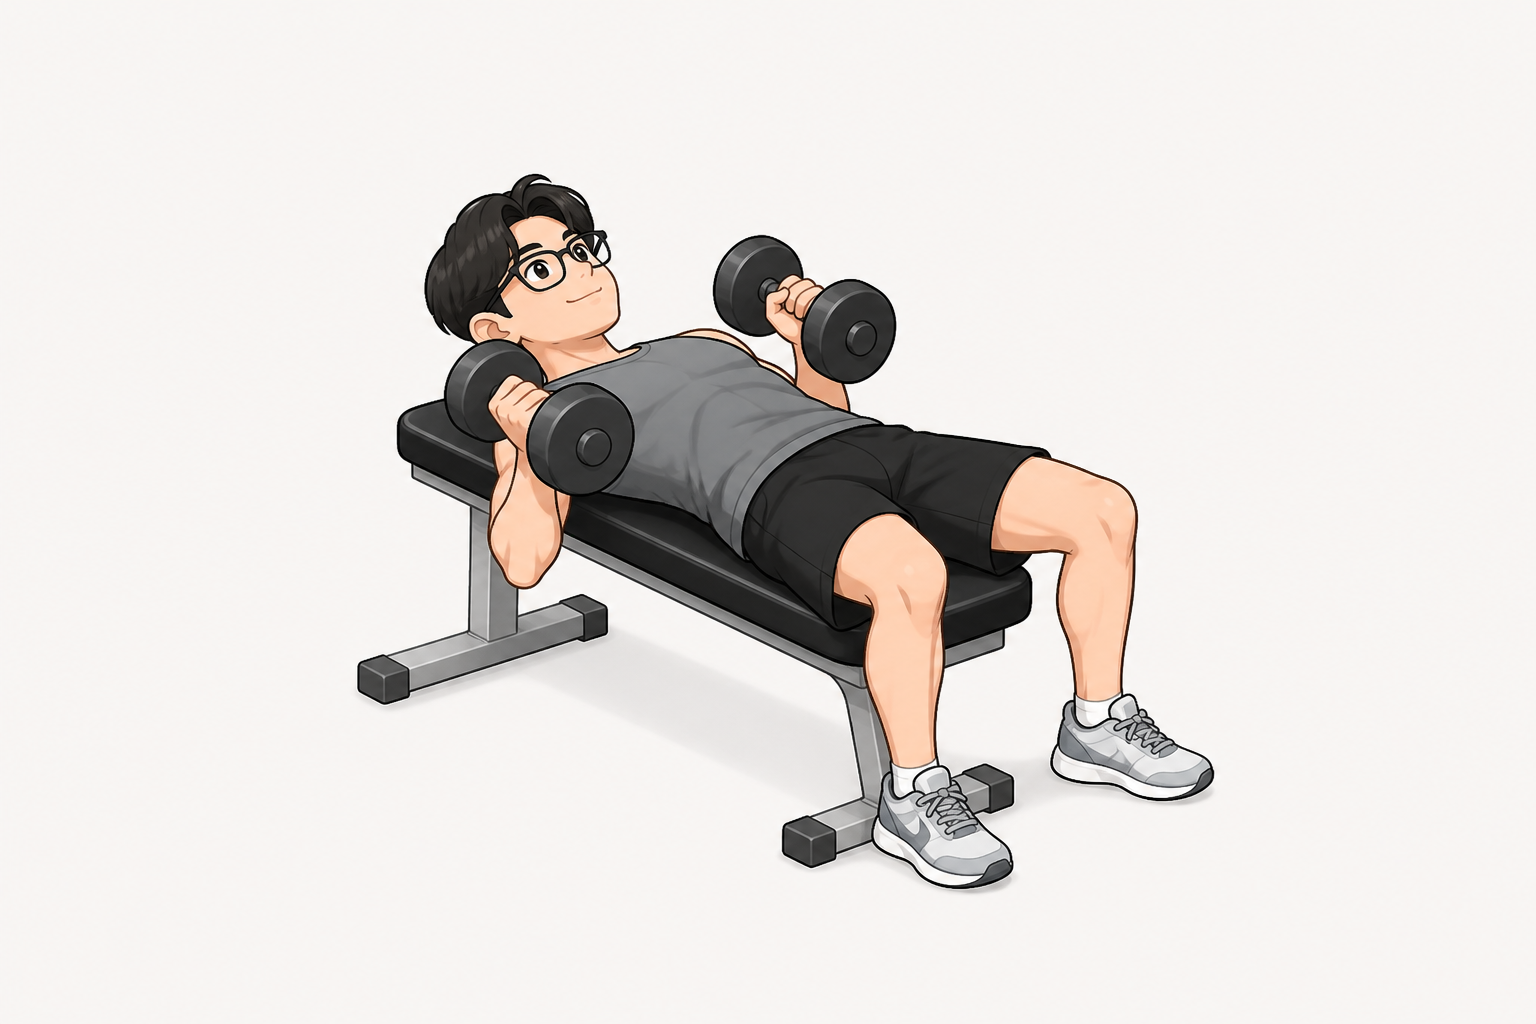
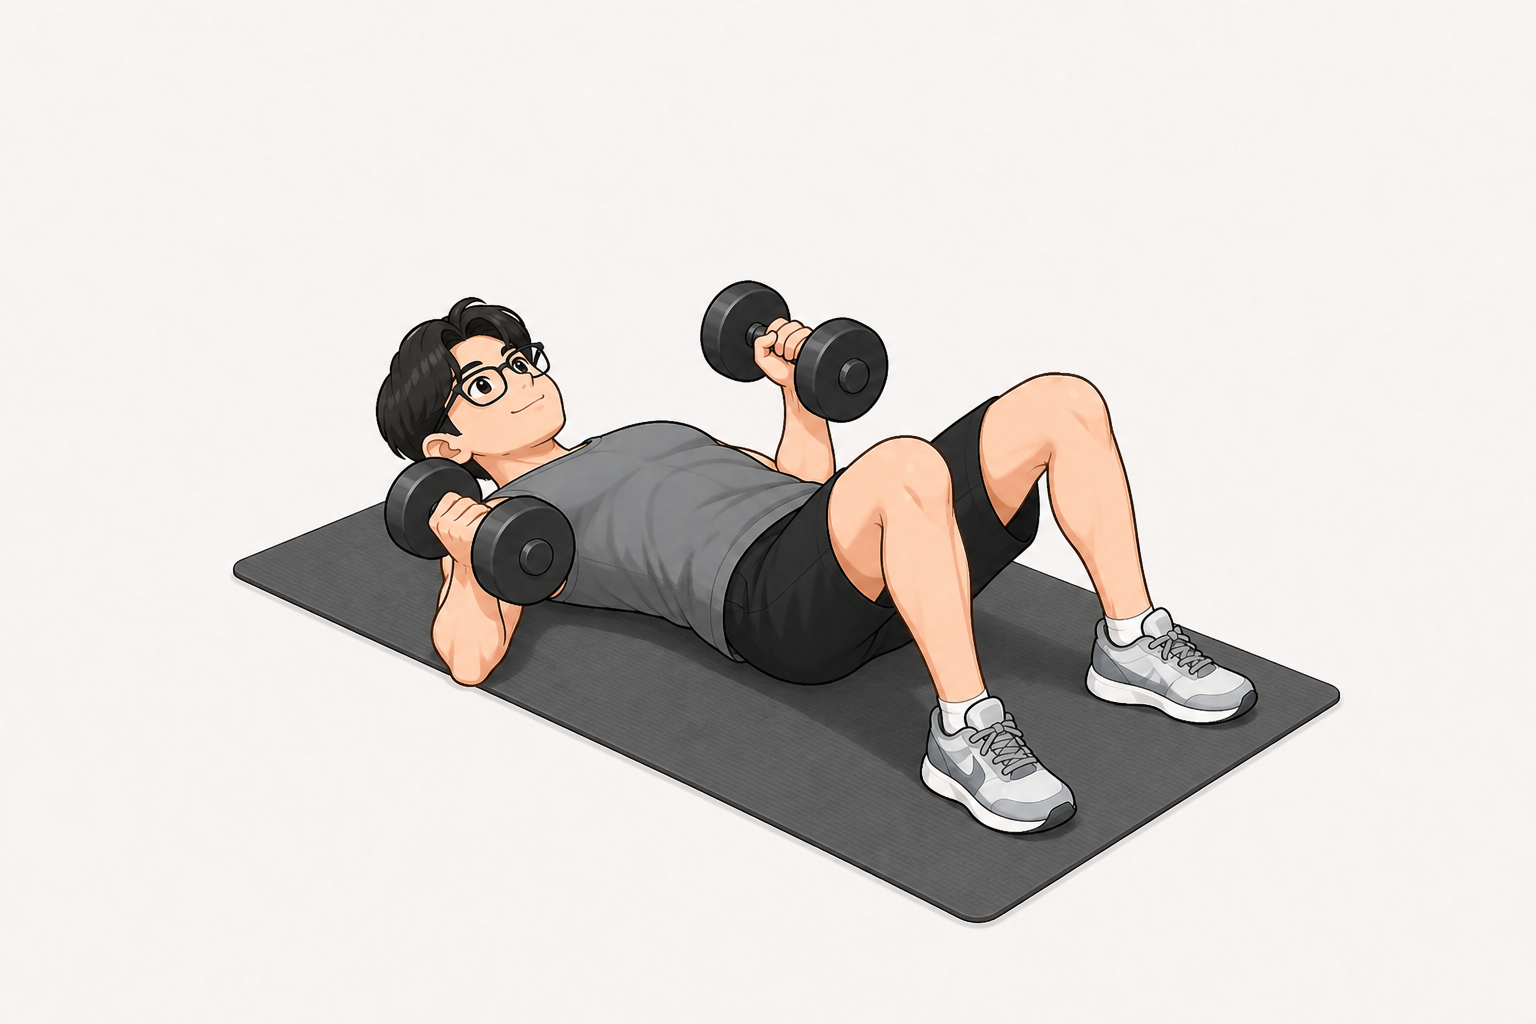
feat: optimize sth

Changed region(s): [[0.1562, 0.1562, 0.875, 0.9062]]

diff --git a/src/pages/ExerciseDetail.tsx b/src/pages/ExerciseDetail.tsx
@@ -1,6 +1,6 @@
 import { Star } from 'lucide-react'
 import type { ReactNode } from 'react'
-import { useState } from 'react'
+import { useRef, useState } from 'react'
 import { useParams } from 'react-router-dom'
 import { AppHeader } from '../components/AppHeader/AppHeader'
 import { ExerciseIllustration } from '../components/ExerciseIllustration/ExerciseIllustration'
@@ -15,10 +15,19 @@ export function ExerciseDetail({
   onToggle: (id: string) => void
 }) {
   const [activeTab, setActiveTab] = useState<'guide' | 'details'>('guide')
+  const swipeStart = useRef<{ x: number; y: number } | null>(null)
   const { id } = useParams()
   const exercise = exercises.find((item) => item.id === id) ?? exercises[0]
   const saved = favorites.includes(exercise.id)
   const { t, text } = useLanguage()
+  const handleTouchEnd = (x: number, y: number) => {
+    if (!swipeStart.current) return
+    const deltaX = x - swipeStart.current.x
+    const deltaY = y - swipeStart.current.y
+    swipeStart.current = null
+    if (Math.abs(deltaX) < 56 || Math.abs(deltaX) <= Math.abs(deltaY)) return
+    setActiveTab(deltaX < 0 ? 'details' : 'guide')
+  }
   return (
     <main className="page detail">
       <div className="detail-head">
@@ -50,7 +59,18 @@ export function ExerciseDetail({
         </button>
       </div>
       {activeTab === 'guide' ? (
-        <div className="detail-panel" role="tabpanel">
+        <div
+          className="detail-panel"
+          role="tabpanel"
+          onTouchStart={(event) => {
+            const touch = event.touches[0]
+            swipeStart.current = { x: touch.clientX, y: touch.clientY }
+          }}
+          onTouchEnd={(event) => {
+            const touch = event.changedTouches[0]
+            handleTouchEnd(touch.clientX, touch.clientY)
+          }}
+        >
           <div className="pose-grid">
             <div>
               <ExerciseIllustration label={t('startPosition')} src={exercise.startImage} />
@@ -73,7 +93,18 @@ export function ExerciseDetail({
           </DetailSection>
         </div>
       ) : (
-        <div className="detail-panel" role="tabpanel">
+        <div
+          className="detail-panel"
+          role="tabpanel"
+          onTouchStart={(event) => {
+            const touch = event.touches[0]
+            swipeStart.current = { x: touch.clientX, y: touch.clientY }
+          }}
+          onTouchEnd={(event) => {
+            const touch = event.changedTouches[0]
+            handleTouchEnd(touch.clientX, touch.clientY)
+          }}
+        >
           <DetailSection title={t('steps')}>
             <ol className="steps">
               {exercise.steps.map((step) => (

diff --git a/src/pages/Pages.css b/src/pages/Pages.css
@@ -134,6 +134,7 @@
   overflow-y: auto;
   padding: 0 1px 16px;
   scrollbar-width: none;
+  touch-action: pan-y;
   animation: detail-panel-in 160ms ease-out;
 }
 .detail-panel::-webkit-scrollbar {
